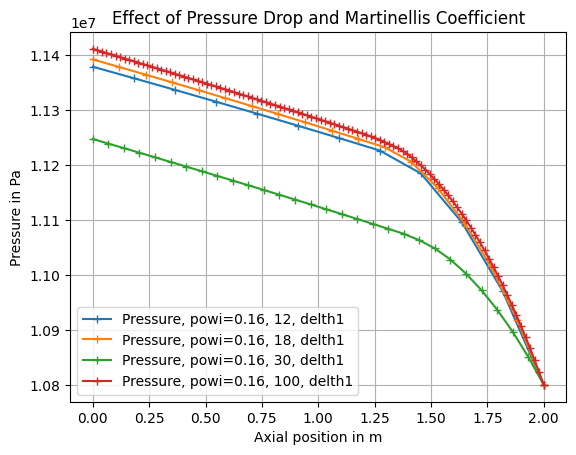
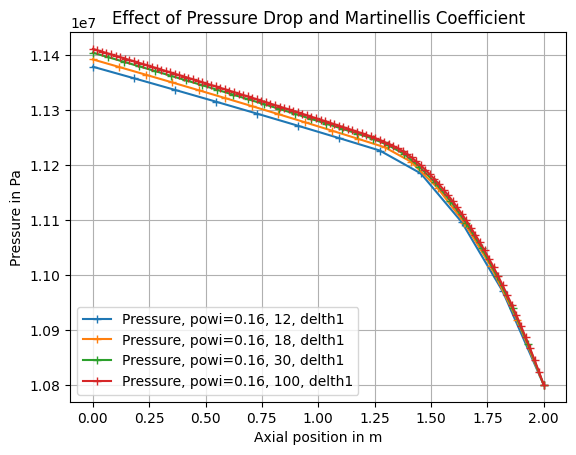
résol Nbre points

diff --git a/Version5_ev3727/NbrePoints.py b/Version5_ev3727/NbrePoints.py
@@ -95,14 +95,14 @@ raw_data_18_16_HEM = """PCOOL:   11392146.0       11378267.0       11364282.0   
  MUT:   9.56901422E-05   9.40857790E-05   9.25135391E-05   9.09703740E-05   8.94530604E-05   8.79583022E-05   8.64828471E-05   8.50237484E-05   8.35776518E-05   8.21424328E-05   8.07144679E-05   7.92911233E-05   7.85540324E-05   7.86764504E-05   7.88381003E-05   7.90429985E-05   7.92967767E-05   7.96065724E-05
 """
 
-raw_data_30_16_HEM = """PCOOL:   11247262.0       11239006.0       11230719.0       11222400.0       11214047.0       11205660.0       11197238.0       11188780.0       11180283.0       11171749.0       11163174.0       11154558.0       11145899.0       11137196.0       11128448.0       11119653.0       11110810.0       11101917.0       11092972.0       11083974.0       11074919.0       11063151.0       11048310.0       11028076.0       11002467.0       10972180.0       10937057.0       10896858.0       10851286.0       10800000.0    
- VCOOL:   9.18928719       9.23405743       9.27973461       9.32629967       9.37386417       9.42239380       9.47196102       9.52259922       9.57434082       9.62723637       9.68132877       9.73666286       9.79332161       9.85133743       9.91076374       9.97169399       10.0341501       10.0982018       10.1639709       10.2315102       10.3009071       10.7295790       11.1488132       11.9192162       12.8499813       13.8005810       14.7727852       15.7686510       16.7906666       17.8416538    
- DCOOL:   761.774658       758.080322       754.350098       750.581360       746.774658       742.927368       739.040161       735.109741       731.137329       727.120117       723.057190       718.947388       714.788818       710.580017       706.318298       702.000977       697.633301       693.207520       688.721863       684.175354       679.565918       652.391663       627.854736       587.402344       544.870239       507.346497       473.957764       444.011841       416.957520       392.350800    
- TCOOL:   551.056274       553.094238       555.117493       557.126526       559.120056       561.098694       563.060974       565.007568       566.936768       568.848938       570.743286       572.619080       574.476013       576.313477       578.131165       579.928894       581.703003       583.455322       585.184998       586.890747       588.571838       590.320801       591.254578       591.422791       591.248169       591.041199       590.800659       590.524597       590.210693       589.856201    
- EPS:   0.00000000       0.00000000       0.00000000       0.00000000       0.00000000       0.00000000       0.00000000       0.00000000       0.00000000       0.00000000       0.00000000       0.00000000       0.00000000       0.00000000       0.00000000       0.00000000       0.00000000       0.00000000       0.00000000       0.00000000       0.00000000       3.52795497E-02   7.20374361E-02  0.137902632      0.208276525      0.270374298      0.325623631      0.375156254      0.419872642      0.460497051    
- XFL:   0.00000000       0.00000000       0.00000000       0.00000000       0.00000000       0.00000000       0.00000000       0.00000000       0.00000000       0.00000000       0.00000000       0.00000000       0.00000000       0.00000000       0.00000000       0.00000000       0.00000000       0.00000000       0.00000000       0.00000000       0.00000000       3.32895666E-03   7.17659341E-03   1.47267152E-02   2.39066370E-02   3.32119726E-02   4.26407419E-02   5.21937571E-02   6.18728921E-02   7.16807097E-02
- TSAT:   592.904785       592.849365       592.793701       592.737793       592.681641       592.625244       592.568542       592.511597       592.454346       592.396790       592.338928       592.280762       592.222290       592.163452       592.104248       592.044739       591.984863       591.924622       591.863953       591.802917       591.741455       591.661499       591.560547       591.422791       591.248169       591.041199       590.800659       590.524597       590.210693       589.856201    
- MUT:   9.60334510E-05   9.51817929E-05   9.43399064E-05   9.35069329E-05   9.26827415E-05   9.18664155E-05   9.10578965E-05   9.02562533E-05   8.94615223E-05   8.86728885E-05   8.78899955E-05   8.71124648E-05   8.63397509E-05   8.55714025E-05   8.48068375E-05   8.40454231E-05   8.32879814E-05   8.25330062E-05   8.17801119E-05   8.10290803E-05   8.02794384E-05   7.94870648E-05   7.90541890E-05   7.90122285E-05   7.90785634E-05   7.91571583E-05   7.92484643E-05   7.93532017E-05   7.94722291E-05   7.96065724E-05
+raw_data_30_16_HEM = """PCOOL:   11404435.0       11396132.0       11387793.0       11379415.0       11370998.0       11362540.0       11354039.0       11345495.0       11336905.0       11328267.0       11319581.0       11310844.0       11302055.0       11293211.0       11284310.0       11275350.0       11266330.0       11257245.0       11248094.0       11236002.0       11220426.0       11197146.0       11168546.0       11134619.0       11095113.0       11049693.0       10997958.0       10939452.0       10873658.0       10800000.0    
+ VCOOL:   9.18982029       9.24103260       9.29339695       9.34700012       9.40185547       9.45804501       9.51558304       9.57456970       9.63505650       9.69712257       9.76081562       9.82624722       9.89348793       9.96265316       10.0338078       10.1070461       10.1824980       10.2602978       10.3406477       10.8133659       11.3067894       12.3337164       13.3820438       14.4535675       15.5506735       16.6761627       17.8333397       19.0259819       20.2584267       21.5355396    
+ DCOOL:   761.724487       757.503052       753.234558       748.914551       744.544128       740.121704       735.645691       731.113037       726.523010       721.873474       717.161926       712.386047       707.543640       702.631592       697.647949       692.593567       687.460327       682.247070       676.951111       647.303772       618.927490       567.474976       523.082153       484.358307       450.231720       419.875397       392.642822       368.022522       345.603943       325.052795    
+ TCOOL:   551.214355       553.542480       555.851379       558.142151       560.412964       562.663025       564.891785       567.099182       569.283875       571.445251       573.582581       575.695068       577.781738       579.841919       581.874207       583.876221       585.849060       587.790588       589.699463       591.720093       592.724548       592.567932       592.375183       592.145996       591.878479       591.570007       591.217407       590.817078       590.364929       589.856201    
+ EPS:   0.00000000       0.00000000       0.00000000       0.00000000       0.00000000       0.00000000       0.00000000       0.00000000       0.00000000       0.00000000       0.00000000       0.00000000       0.00000000       0.00000000       0.00000000       0.00000000       0.00000000       0.00000000       0.00000000       3.83547619E-02   8.14732835E-02  0.167146266      0.241089121      0.305590391      0.362416327      0.412929475      0.458193779      0.499049127      0.536167860      0.570095360    
+ XFL:   0.00000000       0.00000000       0.00000000       0.00000000       0.00000000       0.00000000       0.00000000       0.00000000       0.00000000       0.00000000       0.00000000       0.00000000       0.00000000       0.00000000       0.00000000       0.00000000       0.00000000       0.00000000       0.00000000       3.73581448E-03   8.44385847E-03   1.88428555E-02   2.93877944E-02   4.00704332E-02   5.08897677E-02   6.18470572E-02   7.29447752E-02   8.41858760E-02   9.55739319E-02  0.107113376    
+ TSAT:   593.953674       593.898499       593.843140       593.787415       593.731445       593.675171       593.618591       593.561646       593.504395       593.446777       593.388794       593.330444       593.271729       593.212585       593.153015       593.093079       593.032654       592.971741       592.910339       592.829224       592.724548       592.567932       592.375183       592.145996       591.878479       591.570007       591.217407       590.817078       590.364929       589.856201    
+ MUT:   9.60174439E-05   9.50464309E-05   9.40880855E-05   9.31409522E-05   9.22048275E-05   9.12790420E-05   9.03628461E-05   8.94552868E-05   8.85559130E-05   8.76639897E-05   8.67788040E-05   8.58996573E-05   8.50259239E-05   8.41568326E-05   8.32918959E-05   8.24310555E-05   8.15727253E-05   8.07166871E-05   7.98623369E-05   7.89409023E-05   7.85169468E-05   7.85766097E-05   7.86500023E-05   7.87372410E-05   7.88390098E-05   7.89562837E-05   7.90902486E-05   7.92422361E-05   7.94137522E-05   7.96065724E-05
 """
 raw_data_100_16_HEM = """PCOOL:   11411242.0       11408759.0       11406272.0       11403783.0       11401290.0       11398793.0       11396294.0       11393791.0       11391285.0       11388775.0       11386262.0       11383745.0       11381224.0       11378701.0       11376173.0       11373642.0       11371107.0       11368568.0       11366026.0       11363480.0       11360929.0       11358375.0       11355817.0       11353255.0       11350689.0       11348119.0       11345545.0       11342967.0       11340384.0       11337798.0       11335206.0       11332611.0       11330011.0       11327407.0       11324798.0       11322185.0       11319567.0       11316945.0       11314317.0       11311685.0       11309049.0       11306407.0       11303761.0       11301109.0       11298452.0       11295791.0       11293124.0       11290452.0       11287775.0       11285093.0       11282405.0       11279712.0       11277013.0       11274309.0       11271599.0       11268883.0       11266162.0       11263435.0       11260702.0       11257963.0       11255215.0       11251976.0       11248825.0       11245522.0       11242051.0       11238381.0       11234473.0       11230295.0       11225810.0       11220285.0       11213823.0       11206885.0       11199478.0       11191604.0       11183262.0       11174450.0       11165164.0       11155399.0       11145147.0       11134402.0       11123157.0       11111402.0       11099128.0       11086327.0       11072987.0       11059098.0       11044650.0       11029630.0       11014027.0       10997828.0       10981020.0       10963590.0       10945525.0       10926809.0       10907429.0       10887368.0       10866612.0       10845143.0       10822945.0       10800000.0    
  VCOOL:   9.17208958       9.18721199       9.20243931       9.21775723       9.23318863       9.24871922       9.26436710       9.28011608       9.29596806       9.31193638       9.32800674       9.34420776       9.36050701       9.37692165       9.39345169       9.41010666       9.42688274       9.44377422       9.46078014       9.47792912       9.49519062       9.51257324       9.53009319       9.54774666       9.56553078       9.58345222       9.60150146       9.61968899       9.63801098       9.65648270       9.67510509       9.69386005       9.71276855       9.73182678       9.75103283       9.77039909       9.78991795       9.80959606       9.82943916       9.84944057       9.86961269       9.88995171       9.91046429       9.93115997       9.95201778       9.97305393       9.99428082       10.0156813       10.0373049       10.0590801       10.0810232       10.1031656       10.1255312       10.1480989       10.1708708       10.1938505       10.2170439       10.2404518       10.2640886       10.2879448       10.3628101       10.4123936       10.4699783       10.5369759       10.6133223       10.7009115       10.8017902       10.9180155       11.0511827       11.3071833       11.6130562       11.9208107       12.2304449       12.5419874       12.8554811       13.1709328       13.4884844       13.8081017       14.1298866       14.4538918       14.7801847       15.1088448       15.4399834       15.7736044       16.1098633       16.4488049       16.7905197       17.1351223       17.4827251       17.8333778       18.1872139       18.5443764       18.9049568       19.2690277       19.6367989       20.0083313       20.3837833       20.7633266       21.1470394       21.5351315    
@@ -125,7 +125,7 @@ def extraire(var_name, line_nb, data_name):
     return
 
 # Affichage du tableau des valeurs triées
-powi = 12
+powi = 16
 PCOOL12=[]
 PCOOL18=[]
 PCOOL30=[]

diff --git a/Scripting/CLE200generator.py b/Scripting/CLE200generator.py
@@ -35,7 +35,7 @@ REAL        Mass := 6.464E-3 ; ! kg
 *----
 STRING Dir := "EDI2B" ;
 REAL   Tfuel := 900.0 ; (*fuel temperature (K)*)
-REAL   Tcool := 500.0 ; (*coolant temperature (K)*)
+REAL   Tcool := 550.0 ; (*coolant temperature (K)*)
 REAL   Dfuel := 9.7413951 ; (*fuel density (g/cc)*)
 REAL   dens_mod_0 := 0.65 ;
 REAL   powi := 0.0591122 ;
@@ -156,7 +156,7 @@ Thm Fmap := THM: Fmap ::
     EDIT 100
     FLUID H2O
     FPUISS 1.0
-    INLET 10.8E6 (*Pa*) 500.0 (*K*)
+    INLET 10.8E6 (*Pa*) 550.0 (*K*)
     INLET-Q 2.1268E-5 (*m2*) 0.148880 (*inlet mass flow rate kg/s*)
     ASSMB 1 0
     RADIUS 5.6E-3 6.14E-3 6.52E-3 7.02E-3 (* m *)
@@ -164,7 +164,8 @@ Thm Fmap := THM: Fmap ::
     HGAP 10000.0
     CONDC 0 10.0 KELVIN
     CONDF 0 5.0 KELVIN
-    MONO
+    BOWR
+    PDROP 1
 ;
 
 *--
@@ -228,7 +229,7 @@ echo "pincell_mphy_thm access script terminated"
     return script
 # Exemple d'utilisation
 num_volumes = int(input("Combien de volume de contrôle il faut ?"))  # Nombre de volumes de contrôle
-total_height = 155.5  # Hauteur totale en cm
+total_height = 200   # Hauteur totale en cm
 
 # Générer le script CLE-2000
 cle2000_script = generate_cle2000_script(num_volumes, total_height)
